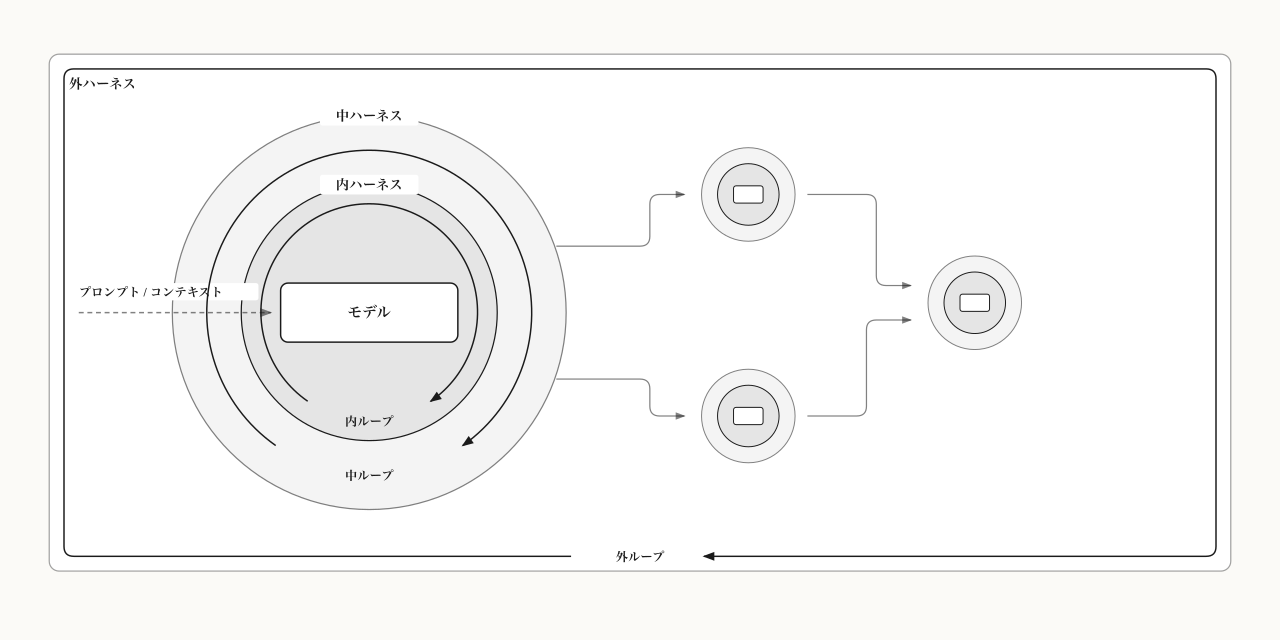
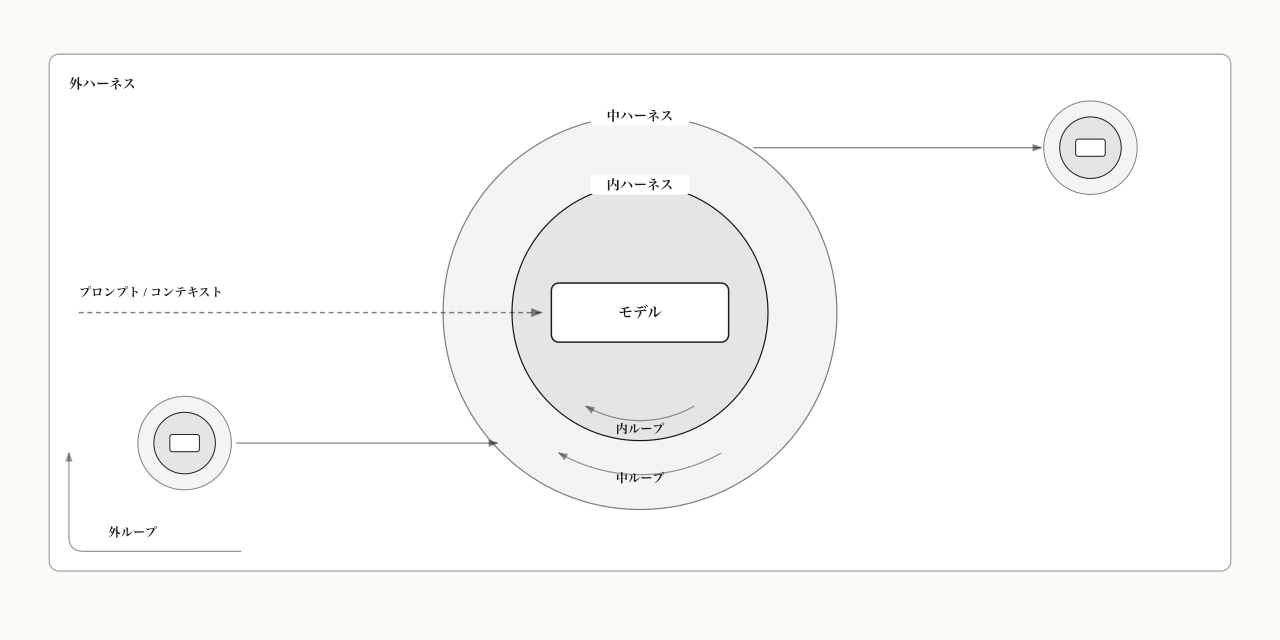
chore

diff --git a/articles/llm-control-layers-taxonomy_20260818.md b/articles/llm-control-layers-taxonomy_20260818.md
@@ -44,7 +44,7 @@ AIエージェントの記事を読むと「◯◯エンジニアリング」が
 
 先に地図を示します。以降の章で、この図の各要素を順に説明します。
 
-![制御の3階層とグラフ。1つの外ハーネスの中に複数の実行単位があり、各実行単位はモデルを内ハーネスと中ハーネスが包んだもの。層と層の間でループが回り、実行単位どうしは分岐と合流でつながる](/images/llm-control-layers-taxonomy_20260818/overview.png)
+![制御の3階層とグラフ。1つの外ハーネスの中に複数の実行単位があり、各実行単位はモデルを内ハーネスと中ハーネスの同心円が包んだもの。層と層の間でループが回り、実行単位どうしは依存の矢印でつながる](/images/llm-control-layers-taxonomy_20260818/overview.png)
 *1つの外ハーネスが複数の実行単位（中＋内＋モデル）を運行する。層と層の間でループが回り、実行単位どうしのつながりがグラフを成す。*
 
 図の要素は次のとおりです。
